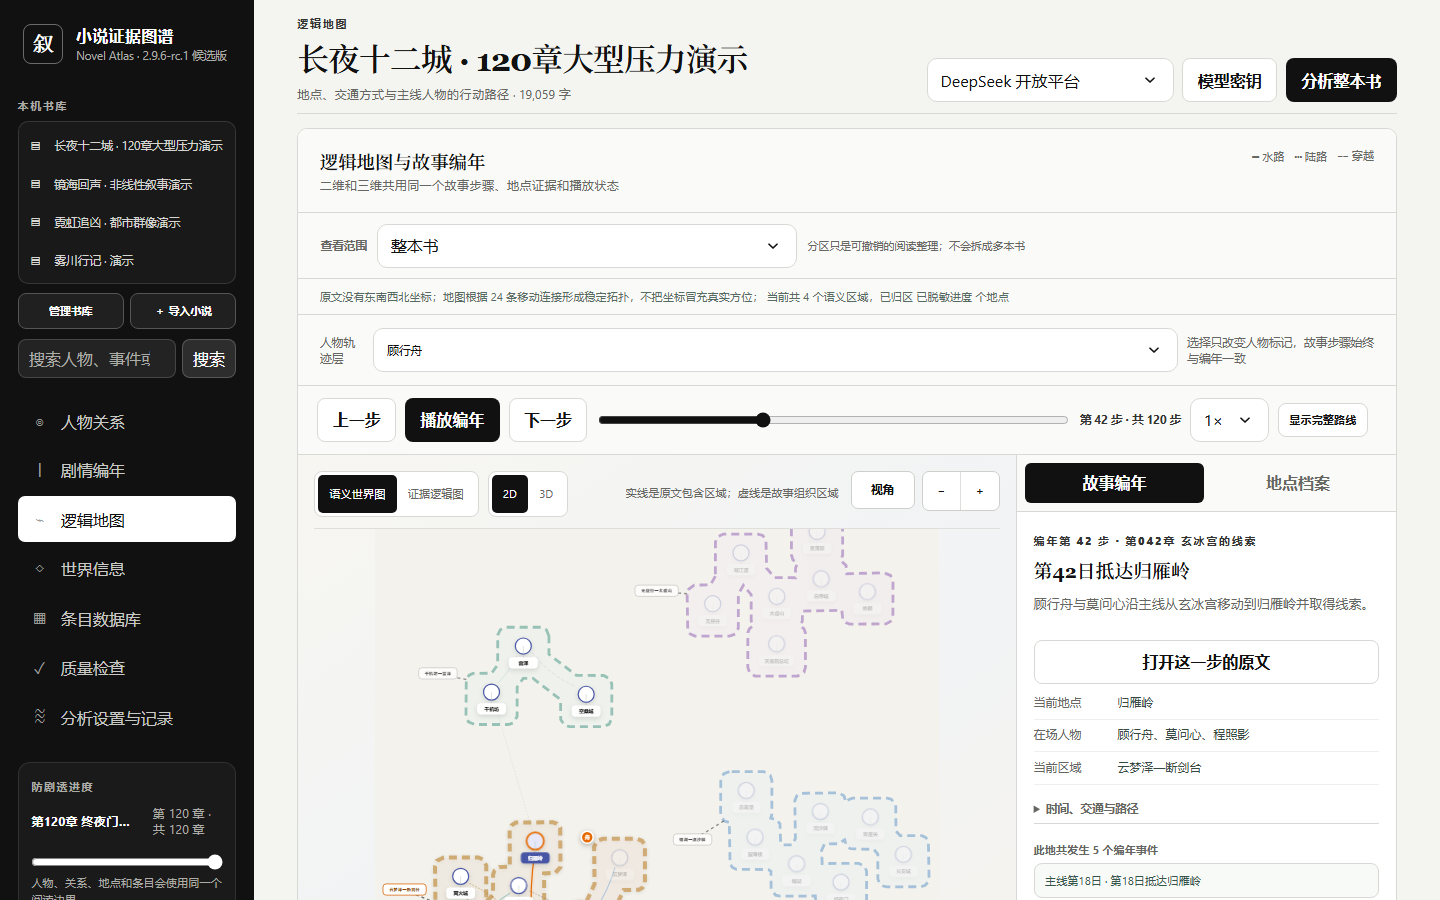
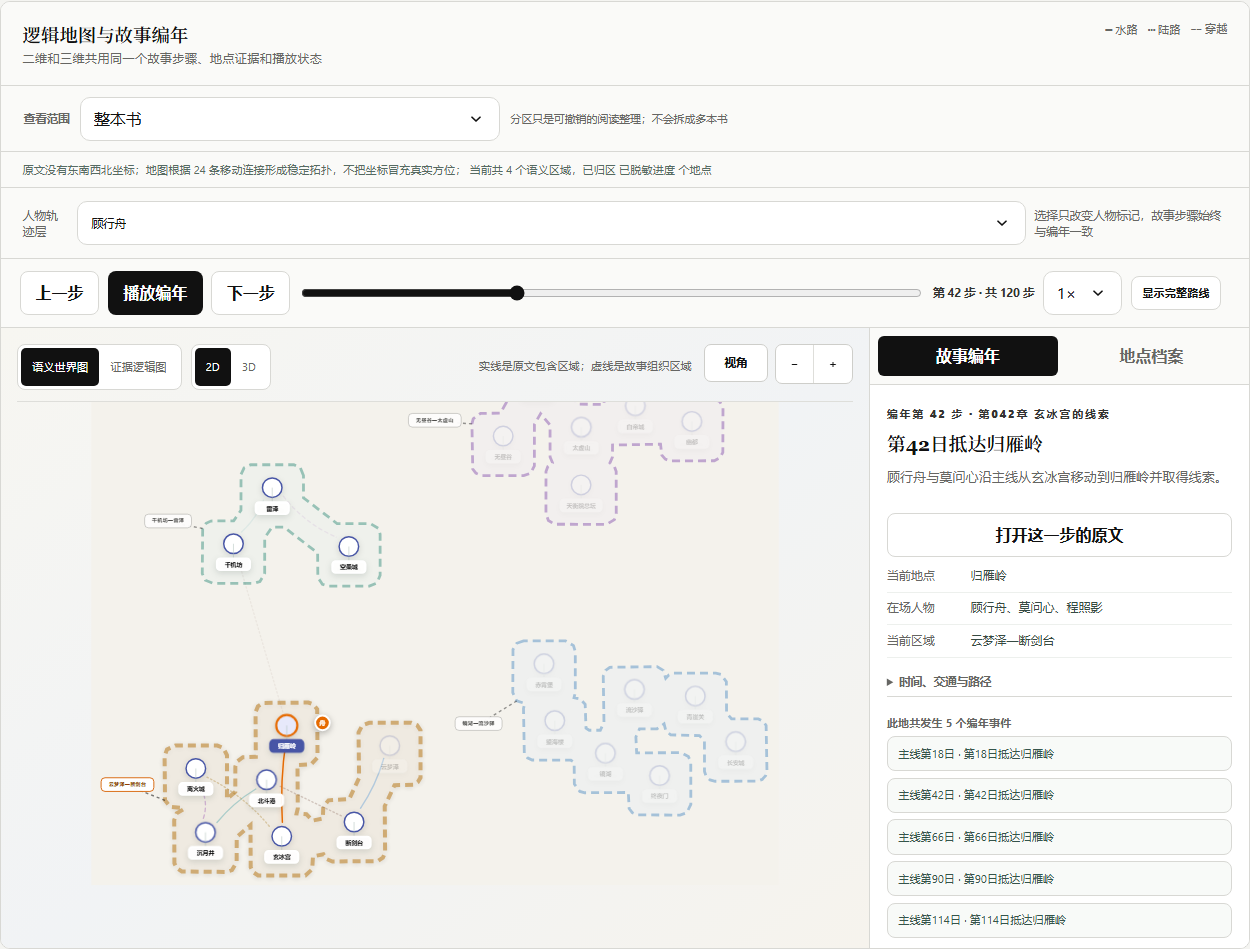
docs: focus GitHub screenshots on product panels

diff --git a/tests/capture_readme_screenshots.spec.js b/tests/capture_readme_screenshots.spec.js
@@ -25,17 +25,24 @@ async function sanitizePublicScreenshot(page) {
   });
 }
 
+async function captureProductPanel(page, path) {
+  const panel = page.locator("#view-panel");
+  await expect(panel).toBeVisible();
+  await panel.scrollIntoViewIfNeeded();
+  await sanitizePublicScreenshot(page);
+  await panel.screenshot({ path, animations: "disabled" });
+}
+
 test("生成 README 脱敏实机截图", async ({ page }) => {
   test.skip(process.env.CAPTURE_README_SCREENSHOTS !== "1" || !baseURL, "仅在维护者主动指定脱敏截图环境时运行");
-  await page.setViewportSize({ width: 1440, height: 900 });
+  await page.setViewportSize({ width: 1600, height: 1000 });
   await page.goto(baseURL, { waitUntil: "networkidle" });
   await selectSyntheticBook(page);
 
   await page.locator('.nav-item[data-view="relationships"]').click();
   await expect(page.locator(".force-graph-shell")).toBeVisible();
   await page.waitForTimeout(1200);
-  await sanitizePublicScreenshot(page);
-  await page.screenshot({ path: "docs/assets/novel-atlas-relationships.png" });
+  await captureProductPanel(page, "docs/assets/novel-atlas-relationships.png");
 
   await page.locator('.nav-item[data-view="map"]').click();
   await expect(page.locator(".map-svg")).toBeVisible();
@@ -44,33 +51,25 @@ test("生成 README 脱敏实机截图", async ({ page }) => {
     slider.dispatchEvent(new Event("input", { bubbles: true }));
   });
   await page.waitForTimeout(300);
-  await sanitizePublicScreenshot(page);
-  await page.screenshot({ path: "docs/assets/novel-atlas-map-2d.png" });
+  await captureProductPanel(page, "docs/assets/novel-atlas-map-2d.png");
 
   await page.locator('.map-mode[data-mode="3d"]').click();
   await expect(page.locator("#map-3d canvas")).toBeVisible();
   await page.waitForTimeout(900);
-  await sanitizePublicScreenshot(page);
-  await page.screenshot({ path: "docs/assets/novel-atlas-map-3d.png" });
+  await captureProductPanel(page, "docs/assets/novel-atlas-map-3d.png");
 
   await page.locator('.nav-item[data-view="database"]').click();
   await expect(page.locator(".knowledge-workspace")).toBeVisible();
   await page.locator("#entry-search").fill("核心危机");
-  await page.locator(".concept-row").first().click();
-  await expect(page.locator("#inspector")).toHaveClass(/open/);
-  await sanitizePublicScreenshot(page);
-  await page.screenshot({ path: "docs/assets/novel-atlas-knowledge.png" });
+  await captureProductPanel(page, "docs/assets/novel-atlas-knowledge.png");
 
-  await page.locator("#inspector-close").click();
   await page.locator("#library-button").click();
   await expect(page.locator(".library-workspace")).toBeVisible();
-  await sanitizePublicScreenshot(page);
-  await page.screenshot({ path: "docs/assets/novel-atlas-library.png" });
+  await captureProductPanel(page, "docs/assets/novel-atlas-library.png");
 
   await page.locator("#library-back").click();
   await page.locator('.nav-item[data-view="quality"]').click();
   await expect(page.locator(".release-decision")).toBeVisible();
   await expect(page.locator(".legacy-review-tools")).toHaveCount(0);
-  await sanitizePublicScreenshot(page);
-  await page.screenshot({ path: "docs/assets/novel-atlas-quality.png" });
+  await captureProductPanel(page, "docs/assets/novel-atlas-quality.png");
 });

diff --git a/README.en.md b/README.en.md
@@ -10,19 +10,29 @@ This is a runnable personal project, not a hosted multi-tenant service with a se
 
 > The screenshot uses the built-in synthetic 120-chapter stress demo and contains no user novel, account, real address, or model credential
 
-## Running product UI
+## 1. Running product UI
 
 Every screenshot below was captured from the current application running in a local browser; the screens preserve real layouts, controls, and data density while using only the built-in synthetic demo
 
-| Evidence-linked relationships | Searchable world knowledge |
-|---|---|
-| ![Draggable and zoomable relationship graph with hover focus](docs/assets/novel-atlas-relationships.png) | ![Searchable world-knowledge workspace with categories and evidence](docs/assets/novel-atlas-knowledge.png) |
-| **Three-pane library** | **Clean quality state** |
-| ![Folder tree, book list, and book details in the library workspace](docs/assets/novel-atlas-library.png) | ![Quality page without optional review counters or specialist tools when no issue exists](docs/assets/novel-atlas-quality.png) |
+![Draggable and zoomable relationship graph with hover focus](docs/assets/novel-atlas-relationships.png)
 
-The map, relationship, knowledge, library, and quality images come from one reproducible browser capture flow; maintainers can point it at an isolated demo, set `CAPTURE_README_SCREENSHOTS=1`, and run `tests/capture_readme_screenshots.spec.js`
+*Evidence-linked relationships; the capture keeps the scope, view controls, and complete graph visible*
 
-## What it does
+![Searchable world-knowledge workspace with categories and evidence](docs/assets/novel-atlas-knowledge.png)
+
+*Searchable world knowledge; categories, search, counters, and the matched result remain visible*
+
+![Folder tree, book list, and book details in the library workspace](docs/assets/novel-atlas-library.png)
+
+*Three-pane library; folders, books, and the selected-book details appear in one complete frame*
+
+![Quality page without optional review counters or specialist tools when no issue exists](docs/assets/novel-atlas-quality.png)
+
+*Clean quality state; review actions appear only when a real issue needs attention*
+
+The map, relationship, knowledge, library, and quality images come from one reproducible browser capture flow; each image targets the active product panel and keeps its heading, controls, and observable result visible; maintainers can point it at an isolated demo, set `CAPTURE_README_SCREENSHOTS=1`, and run `tests/capture_readme_screenshots.spec.js`
+
+## 2. What it does
 
 | Area | Current capability | Explicit boundary |
 |---|---|---|
@@ -36,7 +46,7 @@ The map, relationship, knowledge, library, and quality images come from one repr
 | Review and settings | Actionable items explain the problem, impact, recommendation, evidence, and available decisions | Resolved findings move to history; conflicts never remain as generic dangling errors |
 | Report language | Each book can use source language, Chinese, or English for future generated reports and explanations | Names, titles, user text, and verbatim evidence remain unchanged; existing results are never silently rewritten |
 
-## One fact sequence, several views
+## 3. One fact sequence, several views
 
 The map is not a second plot model. The chronology, 2D map, 3D map, and story details all read one ordered sequence
 
@@ -58,7 +68,7 @@ The guided 3D atlas reuses the same X/Y coordinates. Z represents evidenced cont
 
 ![3D view sharing chronology, coordinates, and semantic colors with 2D](docs/assets/novel-atlas-map-3d.png)
 
-## First local run
+## 4. First local run
 
 Python 3.11 or newer is required
 
@@ -77,7 +87,7 @@ Import supports TXT, Markdown, EPUB, HTML, DOCX, and text-layer PDF. Scanned-ima
 
 Uploads, deletion, incremental updates, and model calls can change local data or incur cost. Validate the workflow with synthetic demos first, back up the database before production use, and process only works you have the right to use
 
-## Model channels and cost boundary
+## 5. Model channels and cost boundary
 
 - DeepSeek Platform API
 - Moonshot Platform API
@@ -89,7 +99,7 @@ Cost Forecast 2.0 separates the median forecast, conservative ceiling, actual sp
 
 Model credentials are excluded from browser responses, the database, the repository, and release packages. Public deployments do not receive paid model credentials by default
 
-## Container run
+## 6. Container run
 
 ```bash
 docker compose -f deploy/compose.yaml up -d --build # Build and start the loopback-only container
@@ -100,7 +110,7 @@ The container binds only to `127.0.0.1:18765` and should be exposed through a co
 
 See [docs/DEPLOYMENT.md](docs/DEPLOYMENT.md) for deployment, backup, and rollback
 
-## Current verification evidence
+## 7. Current verification evidence
 
 ```powershell
 python -m pytest -q # Run API, migration, and product-contract tests
@@ -128,7 +138,7 @@ The ordinary quality page only shows missing evidence, identity conflicts, relat
 
 Five Chinese classics are direct coverage; the other seven works provide cross-language and adjacent-genre proxies. They do not constitute direct validation for contemporary commercial web fiction, light novels, women's fiction, or urban fiction
 
-## Data and security
+## 8. Data and security
 
 - Novel text, databases, uploads, run output, credentials, and build artifacts stay outside version control
 - A formal fact without an exact source passage remains unknown or unresolved
@@ -138,7 +148,7 @@ Five Chinese classics are direct coverage; the other seven works provide cross-l
 
 See [docs/PRODUCT_CONTRACT.md](docs/PRODUCT_CONTRACT.md) for the product contract and [docs/CURRENT_STATE.md](docs/CURRENT_STATE.md) for the current implementation state
 
-## Project status and license
+## 9. Project status and license
 
 Model extraction can still be wrong. Subtle foreshadowing, namesakes, unreliable narration, and implicit locations need human review
 

diff --git a/README.md b/README.md
@@ -10,19 +10,29 @@
 
 > 截图来自项目自带的 120 章合成压力演示，不含用户小说、账号、真实地址或模型密钥
 
-## 实际运行界面
+## 1. 实际运行界面
 
 以下截图均由当前版本在本机浏览器中实际运行后生成；画面只使用内置合成演示，保留真实布局、交互控件和数据密度，同时移除用户内容与运行环境信息
 
-| 人物关系与证据连线 | 世界知识与检索 |
-|---|---|
-| ![可拖动、缩放和悬停聚焦的人物关系图](docs/assets/novel-atlas-relationships.png) | ![可搜索、分类并查看证据的世界知识工作区](docs/assets/novel-atlas-knowledge.png) |
-| **三栏书库管理** | **零待处理时的质量页** |
-| ![文件夹、书籍列表和书籍详情组成的三栏书库](docs/assets/novel-atlas-library.png) | ![没有问题时不显示人工复核统计或专业处理工具的质量页](docs/assets/novel-atlas-quality.png) |
+![可拖动、缩放和悬停聚焦的人物关系图](docs/assets/novel-atlas-relationships.png)
 
-地图、关系、知识、书库和质量页来自同一次可复现的浏览器截图流程；维护者可以指定隔离演示地址并设置 `CAPTURE_README_SCREENSHOTS=1`，再运行 `tests/capture_readme_screenshots.spec.js` 重新生成
+*人物关系与证据连线；截图保留关系范围、视图控制和完整图谱*
 
-## 能解决什么
+![可搜索、分类并查看证据的世界知识工作区](docs/assets/novel-atlas-knowledge.png)
+
+*世界知识与检索；截图保留分类、搜索、统计和检索结果*
+
+![文件夹、书籍列表和书籍详情组成的三栏书库](docs/assets/novel-atlas-library.png)
+
+*三栏书库管理；文件夹、书籍列表和当前书籍资料在同一画面完整显示*
+
+![没有问题时不显示人工复核统计或专业处理工具的质量页](docs/assets/novel-atlas-quality.png)
+
+*零待处理时的质量页；只有真实待处理事项才会出现复核入口*
+
+地图、关系、知识、书库和质量页来自同一次可复现的浏览器截图流程；每张图只截取当前功能面板，完整保留面板标题、操作栏和可观察结果；维护者可以指定隔离演示地址并设置 `CAPTURE_README_SCREENSHOTS=1`，再运行 `tests/capture_readme_screenshots.spec.js` 重新生成
+
+## 2. 能解决什么
 
 | 模块 | 当前能力 | 明确边界 |
 |---|---|---|
@@ -36,7 +46,7 @@
 | 审核与设置 | 待处理事项说明问题、影响、建议、证据和操作；分析设置保留阅读规则、成本与运行记录 | 已自动解决的记录进入历史，冲突不会作为普通报错悬挂 |
 | 报告语言 | 每本书可以选择跟随原文、中文或 English；未来生成的报告与说明使用所选语言 | 人名、书名、用户文字和逐字证据保持原样；已有结果不会被静默改写 |
 
-## 一套事实，多个视图
+## 3. 一套事实，多个视图
 
 地图不是另一套剧情，2D、3D、编年列表和故事详情只读取同一份有序步骤
 
@@ -58,7 +68,7 @@ flowchart TD
 
 ![与二维地图共享步骤和语义色的三维视图](docs/assets/novel-atlas-map-3d.png)
 
-## 本机首次运行
+## 4. 本机首次运行
 
 需要 Python 3.11 或更新版本
 
@@ -77,7 +87,7 @@ python -m uvicorn app.main:app --host 127.0.0.1 --port 8765 # 只在本机启动
 
 上传、删除、增量更新和模型调用都会改变本机数据或产生费用；先使用合成演示验证流程，正式操作前备份数据库，并只处理自己有权使用的作品
 
-## 模型通道与成本边界
+## 5. 模型通道与成本边界
 
 - DeepSeek 开放平台 API
 - Moonshot 开放平台 API
@@ -89,7 +99,7 @@ python -m uvicorn app.main:app --host 127.0.0.1 --port 8765 # 只在本机启动
 
 模型密钥不会进入网页响应、数据库、仓库或安装包，公开部署默认不配置任何付费模型密钥
 
-## 容器运行
+## 6. 容器运行
 
 ```bash
 docker compose -f deploy/compose.yaml up -d --build # 构建并启动只绑定本机的容器
@@ -100,7 +110,7 @@ curl http://127.0.0.1:18765/readyz # 核对应用和数据库已经就绪
 
 部署、备份和回滚说明见 [docs/DEPLOYMENT.md](docs/DEPLOYMENT.md)
 
-## 当前验证证据
+## 7. 当前验证证据
 
 ```powershell
 python -m pytest -q # 运行接口、数据迁移和产品合同测试
@@ -128,7 +138,7 @@ powershell -NoProfile -ExecutionPolicy Bypass -File scripts/check_current_state.
 
 《西游记》《红楼梦》《水浒传》《三国演义》《聊斋志异》属于直接覆盖，其余 7 部属于跨语言和相近文体代理，不能冒充现代商业网文、商业轻小说、现代女频或现代都市小说的直接验证
 
-## 数据与安全
+## 8. 数据与安全
 
 - 小说正文、数据库、上传文件、运行输出、密钥和构建产物不进入版本控制
 - 没有逐字证据的正式事实保持未知或待解决，不能猜测补全
@@ -138,7 +148,7 @@ powershell -NoProfile -ExecutionPolicy Bypass -File scripts/check_current_state.
 
 详细合同见 [docs/PRODUCT_CONTRACT.md](docs/PRODUCT_CONTRACT.md)，当前实现状态见 [docs/CURRENT_STATE.md](docs/CURRENT_STATE.md)
 
-## 项目状态与许可
+## 9. 项目状态与许可
 
 模型抽取仍可能出错，复杂伏笔、同名人物、不可靠叙述和隐含地点需要人工复核
 

diff --git a/docs/CURRENT_STATE.md b/docs/CURRENT_STATE.md
@@ -17,8 +17,9 @@
 - 增量更新继续复用未变化章节；人工编辑和逐字证据不会被静默覆盖
 - 当证据不足身份数为零时，首页不再保留“可选人工复核”卡片或文字
 - 当身份、关系、时间、地点和地图均没有待处理项时，质量页不再创建“专业处理工具”入口
-- README 增加人物关系、世界知识、三栏书库和零待处理质量页四张实机截图；全部使用内置合成数据
-- 新增可复现的 README 截图流程；截图不包含用户小说、账号、网址、密钥或浏览器登录信息
+- README 增加人物关系、世界知识、三栏书库和零待处理质量页四张实机截图；全部使用内置合成数据并按功能面板取景
+- 中英文 README 使用全宽截图；面板标题、操作栏和可观察结果不会再被整页留白或页面滚动位置裁掉
+- 可复现的 README 截图流程不包含用户小说、账号、网址、密钥或浏览器登录信息
 
 ## 2 当前验证证据
 
@@ -29,7 +30,8 @@
 - 本轮新增回归断言；普通脚本和浏览器页面均不得出现人工题库、密封题或对应入口
 - 质量结构检查和内部评测状态已经分离；内部样本不足不会制造读者可见错误，也不会阻断当前书籍使用
 - 新增浏览器断言；零问题状态下不出现人工复核统计、证据不足身份文案或专业处理工具
-- 六张公开 PNG 均为 1440×900；没有嵌入文本元数据
+- 六张公开 PNG 宽度统一为 1,250 像素；高度按照功能面板内容自适应；没有嵌入文本元数据
+- 中英文 README 严格检查为 0 个错误和 0 个提醒；亮色、暗色、1,280 像素桌面与 390 像素窄屏共 8 个渲染检查通过
 
 ## 3 质量处理口径
 
@@ -47,7 +49,7 @@
 
 - 当前源码、GitHub 默认分支与 VPS 均为 `2.9.6-rc.1`
 - GitHub 仓库外干净候选提交为 `6c1a99d`；安全门禁为 0 个阻断和 0 个覆盖缺口；Actions 运行 `33288986817` 已通过
-- GitHub 预发布标签为 `v2.9.6-rc.1`；README 展示六张使用内置合成数据生成的实际运行页面截图
+- GitHub 预发布标签为 `v2.9.6-rc.1`；README 展示六张使用内置合成数据生成的实际运行功能面板截图
 - VPS 内部 `/readyz` 返回 `2.9.6-rc.1`；容器健康；原数据库卷保持不变
 - 未登录访问根页面、书库接口和就绪接口均跳转 Authentik；TLS 与安全响应头正常
 - 登录后的零问题界面已由本地 Chromium 回归覆盖；现有公网登录会话需要在页面刷新后读取新版本资源
